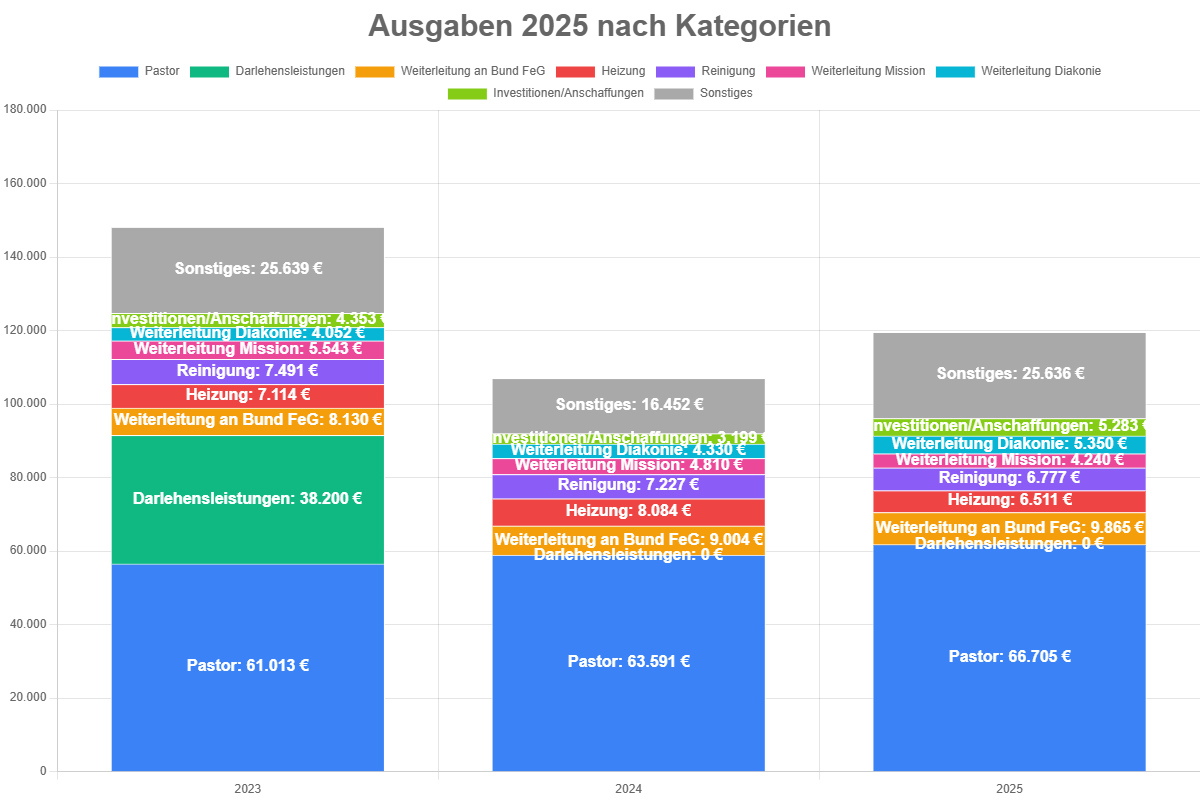
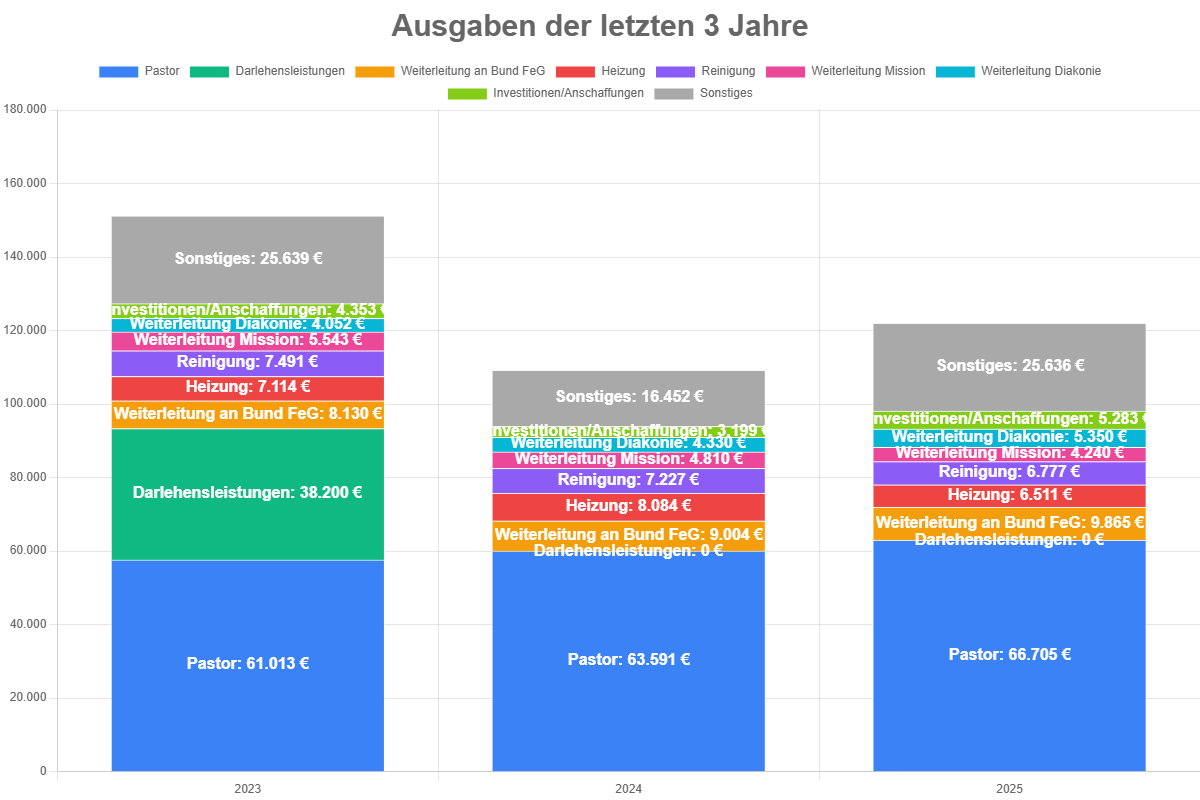
chore: Kleine Textänderungen

diff --git a/lib/generate-einnahmen-chart.js b/lib/generate-einnahmen-chart.js
@@ -28,7 +28,7 @@ async function generateEinnahmenChartPlaywright(reportYear, options = {}) {
   const datasetsForHtml = sortedCats.map((cat, idx) => ({ label: cat, data: years.map(y => Math.abs((data[y] && data[y][cat]) || 0)), backgroundColor: (cat === 'Sonstiges') ? '#A9A9A9' : colors[idx % colors.length], borderColor: '#ffffff', borderWidth: 1, stack: 'stack1' }));
 
   const dataPart = JSON.stringify({ labels: years, datasets: datasetsForHtml }, null, 2);
-  const titlePart = JSON.stringify({ display: true, text: `Einnahmen ${year}`, font: { size: 30 } }, null, 2);
+  const titlePart = JSON.stringify({ display: true, text: `Einnahmen der letzten 3 Jahre`, font: { size: 30 } }, null, 2);
   const legendPart = JSON.stringify({ position: 'top' }, null, 2);
   const formatterFn = `function(value, context) { try { var label = (context && context.dataset && context.dataset.label) ? context.dataset.label : ''; var v = (typeof value === 'number') ? value : (value && value.y !== undefined ? value.y : 0); var n = Math.round(Number(v) || 0); return (label ? label + ': ' : '') + n.toLocaleString('de-DE') + ' €'; } catch (e) { return '' + value; } }`;
   const datalabelsPart = `{"color":"#ffffff","anchor":"center","align":"center","padding":{"left":6},"font":{"weight":"bold","size":12},"formatter":${formatterFn}}`;

diff --git a/lib/generate-ausgaben-chart.js b/lib/generate-ausgaben-chart.js
@@ -35,7 +35,7 @@ async function generateAusgabenChartPlaywright(reportYear, options = {}) {
   }));
 
   const dataPart = JSON.stringify({ labels: years, datasets: datasetsForHtml }, null, 2);
-  const titlePart = JSON.stringify({ display: true, text: `Ausgaben ${year} nach Kategorien`, font: { size: 30 } }, null, 2);
+  const titlePart = JSON.stringify({ display: true, text: `Ausgaben der letzten 3 Jahre`, font: { size: 30 } }, null, 2);
   const legendPart = JSON.stringify({ position: 'top' }, null, 2);
   const formatterFn = `function(value, context) { try { var label = (context && context.dataset && context.dataset.label) ? context.dataset.label : ''; var v = (typeof value === 'number') ? value : (value && value.y !== undefined ? value.y : 0); var n = Math.round(Math.abs(Number(v) || 0)); return (label ? label + ': ' : '') + n.toLocaleString('de-DE') + ' €'; } catch (e) { return '' + value; } }`;
   const datalabelsPart = `{"color":"#ffffff","anchor":"center","align":"center","padding":{"left":6},"font":{"weight":"bold","size":16},"formatter":${formatterFn}}`;

diff --git a/Daten/result/Ausgaben_2025.html b/Daten/result/Ausgaben_2025.html
@@ -116,7 +116,7 @@
   ]
 },"options":{"indexAxis":"x","plugins":{"title":{
   "display": true,
-  "text": "Ausgaben 2025 nach Kategorien",
+  "text": "Ausgaben der letzten 3 Jahre",
   "font": {
     "size": 30
   }

diff --git a/Daten/result/Einnahmen_2025.html b/Daten/result/Einnahmen_2025.html
@@ -128,7 +128,7 @@
   ]
 },"options":{"indexAxis":"x","plugins":{"title":{
   "display": true,
-  "text": "Einnahmen 2025",
+  "text": "Einnahmen der letzten 3 Jahre",
   "font": {
     "size": 30
   }

diff --git a/README.md b/README.md
@@ -1,3 +1,93 @@
+# FeG Eschweiler — Generator für Ergebnisseiten und Präsentationen
+#
+# Autor: Achim Mertens
+# Version 1.0 (2026-02-05)
+#
+
+Dieses Repository erzeugt aus CSV-Finanzdaten eine Reihe von Ergebnisseiten im Ordner `Daten/result` und (optional) eine PowerPoint-Präsentation.
+
+Wichtig: README wurde aktualisiert — das Tool erstellt heute HTML/JSON/PNG-Ausgaben und einige Hilfsseiten. Die frühere automatische Excel-Erzeugung ist standardmäßig deaktiviert.
+
+## Schneller Start
+
+1. Node.js installieren (empfohlen >= 18)
+2. Abhängigkeiten installieren:
+
+```bash
+npm install
+```
+
+3. Generierung starten:
+
+```bash
+node generate-presentation.js
+```
+
+Die Ausgaben landen in `Daten/result`.
+
+## Was das Skript jetzt erzeugt
+
+- HTML- und JSON-Ausgaben für Berichte (z.B. `Ausgaben_YYYY.html`, `Ausgaben_YYYY.json`)
+- PNG-Vorschauen der Diagramme (wenn Playwright verfügbar)
+- `index.html` in `Daten/result` mit Navigation und eingebetteten Seiten
+- `Budget_YYYY.html` (Budget-Tabelle; die Plan-Spalte wird aus der letzten Spalte von `Budget_YYYY.csv` übernommen)
+- `Sonderspenden.html` (aus `Daten/SonderspendenTermine.csv`)
+- `Checkliste.html` (eine einfache jährliche Checkliste)
+
+Außerdem werden Hilfsmodule verwendet:
+- `lib/budget.js` — Budget-HTML-Generator
+- `lib/sonderspenden.js` — Sonderspenden-Page-Generator
+- `lib/checklist.js` — Checkliste-Generator
+
+Wenn die Datei `Daten/Budget_<aktuellesJahr>.csv` existiert, wird sie beim Lauf automatisch nach `Daten/result/` kopiert und als Plan-Spalte verwendet.
+
+## Hinweise zu Budget-HTML
+
+- Die beiden Spalten `Verbraucht-Vorjahr` und `Geplant-Vorjahr` werden in der erzeugten HTML-Tabelle nicht angezeigt.
+- Die Planwerte für das laufende Jahr werden aus der letzten Spalte der Budget-CSV übernommen.
+
+## PPT / Excel Verhalten
+
+- Die frühere automatische Erstellung von `Finanzlage_FeG_Eschweiler.xlsx` ist standardmäßig deaktiviert.
+- Die PPT-Erzeugung wird nur ausgeführt, wenn ausreichend sortierte Daten (Einnahmen/Ausgaben/Pie) vorhanden sind. Andernfalls wird sie übersprungen.
+
+Wenn du wieder eine Excel- oder PPT-Erzeugung aus Daten erzwingen willst, sag mir Bescheid — ich kann das wieder aktivieren und die Quellen (CSV/JSON) definieren.
+
+# Was du jährlich tun musst, um die Präsentation zu erzeugen
+## Erwartete Eingabedateien (Ordner `Daten/`)
+
+- `gewinn-verlust-bericht_YYYY.csv` — Gewinn-/Verlustberichte
+- `bilanzbericht_YYYY.csv` — Bilanzberichte
+- `Entwicklung.csv` — historische Kontostände (wird aktualisiert)
+- optional: `Budgets_YYYY.txt` oder `Budget_YYYY.csv` — Budgets
+- optional: `SonderspendenTermine.csv` — Termine für Sonderspenden
+
+## Überprüfe auch die Punkte in der Checklist
+Siehe checklist.js — dort findest du eine einfache Schritt-für-Schritt-Anleitung, was du tun musst, um die Daten zu aktualisieren.
+Ggf. musst du die Liste noch etwas anpassen.
+
+## Ergebnisordner (`Daten/result`)
+
+Nach Ausführung findest du dort mindestens:
+- `index.html` — Hauptseite mit Navigation
+- `Ausgaben_YYYY.html`, `Einnahmen_YYYY.html`, `Entwicklung_YYYY.html`
+- `Budget_<aktuellesJahr>.html` und `Budget_<aktuellesJahr>.csv` (falls vorhanden)
+- `Sonderspenden.html`, `Checkliste.html`
+- ggf. `*.png` Vorschauen und `*.json` für Diagrammdaten
+
+## Debugging
+
+- Logs: `debug.log` im Projekt-Root enthält Laufinformationen.
+- Wenn etwas fehlt, starte `node generate-presentation.js` und prüfe das Log auf Hinweise.
+
+## Weiteres / Anpassungen
+
+- Die HTML-Vorlagen und das Index-Menü werden in `generate-presentation.js` erzeugt — kleine Anpassungen (Labels, Reihenfolge) lassen sich dort schnell ändern.
+- Wenn du interaktive Checklisten, sortierte/formatierte Sonderspenden-Tabellen oder weitere Exporte brauchst, implementiere ich das gern.
+
+---
+
+Wenn du möchtest, schreibe ich noch eine kurze Anleitung, welche Dateien du jährlich aktualisieren musst — oder mache die Checkliste interaktiv.
 # FeG Eschweiler - Finanzpräsentation Generator
 
 Dieses Projekt generiert automatisch eine PowerPoint-Präsentation zur Finanzlage der Freien evangelischen Gemeinde Eschweiler.
